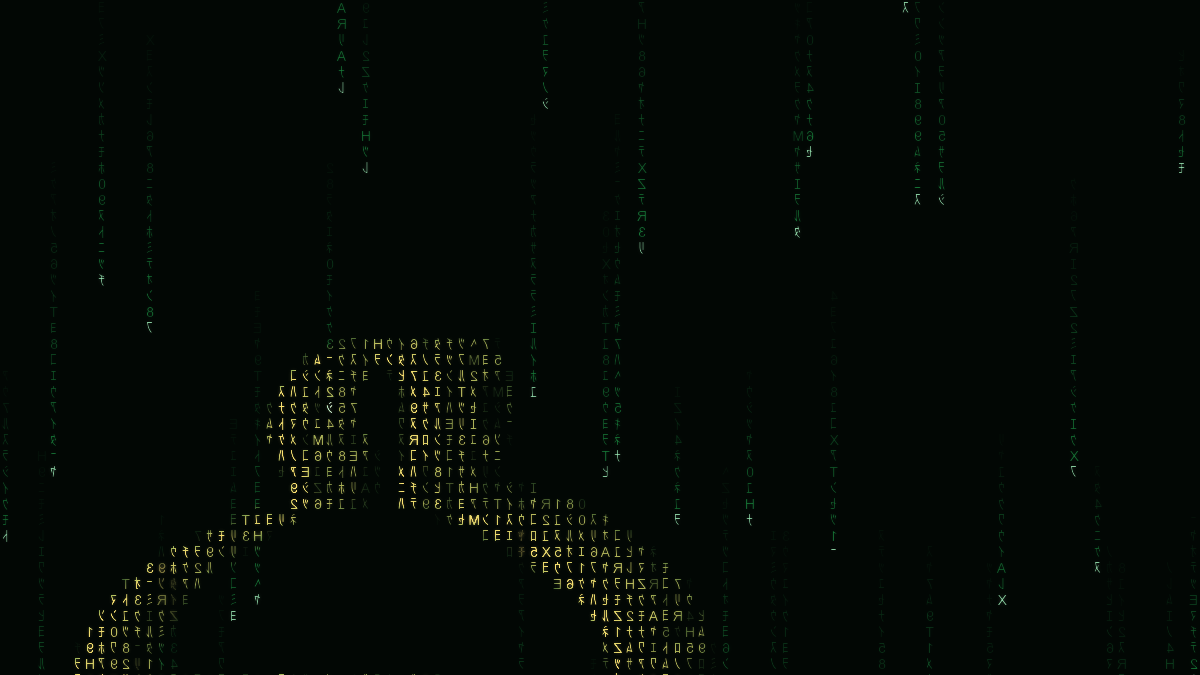
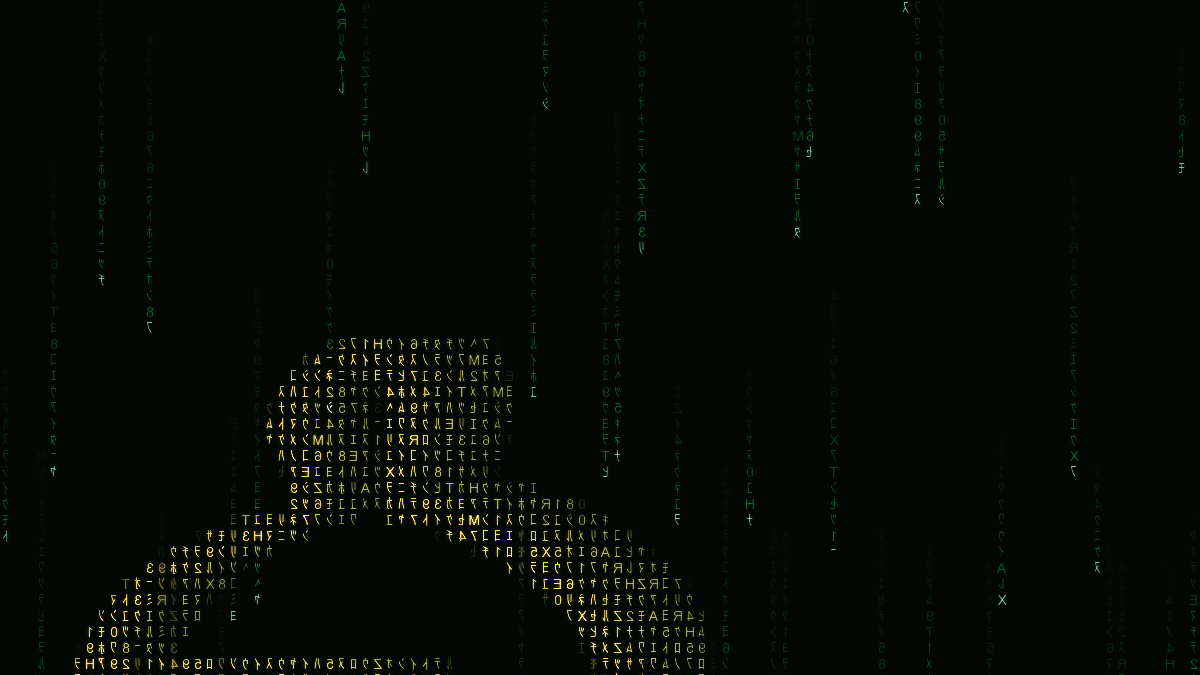
Docs: outline_width key, 6 s burst, re-rendered motion images

diff --git a/docs/index.html b/docs/index.html
@@ -215,7 +215,7 @@ cd iterm2-matrix-rain
       <pre class="cmd"><code>.venv/bin/matrix-rain camera disable</code></pre>
       <ul style="margin-top: 14px;">
         <li>Where something moves, the rain draws a gold outline of it, then fades back to green over about 5 s.</li>
-        <li>New motion bursts brighter for the first 3 s, then settles.</li>
+        <li>New motion bursts brighter for the first 6 s, then settles.</li>
         <li>The camera opens only while the rain animates at full rate, so its light is off when idle.</li>
         <li>It reads a low-resolution motion mask.  Nothing is recorded or stored.</li>
       </ul>

diff --git a/README.md b/README.md
@@ -15,7 +15,7 @@ iTerm2 does not animate GIF backgrounds.  A small daemon renders soft PNG frames
 
 ## Camera motion (optional, off by default)
 
-With the camera turned on, the rain draws a gold outline around whatever moves in front of the Mac's camera, such as you, and fades back over about five seconds.  The gold is stronger for the first few seconds after you start moving.  It is off until you run `matrix-rain camera enable`, and nothing is recorded or stored.  See [Camera motion](#camera-motion) for details.
+With the camera turned on, the rain draws a gold outline around whatever moves in front of the Mac's camera, such as you, and fades back over about five seconds.  The gold is stronger for the first six seconds after you start moving.  It is off until you run `matrix-rain camera enable`, and nothing is recorded or stored.  See [Camera motion](#camera-motion) for details.
 
 ![Motion tint](docs/preview-motion.png)
 
@@ -172,7 +172,8 @@ pkill -f 'matrix[-_]rain daemon'; osascript ~/Library/Application\ Support/iTerm
 | `sensitivity` | `0.5` | 0 reacts only to large changes, 1 to small ones too; 0.5 is a 24 gray-level threshold, which `camera test` prints |
 | `strength` | `1.0` | How far moving cells shift toward the tint, 0 to 1 |
 | `shape` | `"outline"` | `"outline"`: the gold edge of what moved; `"fill"`: the whole moving area |
-| `burst` | `3.0` | Seconds of stronger gold when motion starts after a rest |
+| `outline_width` | `3` | Outline thickness from 1 (thin) to 8 |
+| `burst` | `6.0` | Seconds of stronger gold when motion starts after a rest |
 | `burst_rest` | `2.0` | Seconds of stillness before the next motion bursts |
 | `burst_strength` | `1.7` | Brightness multiplier for gold cells during a burst |
 | `burst_tint`, `burst_head_tint` | `[255, 220, 110]`, `[255, 252, 225]` | Tail and head colors during a burst |
@@ -238,7 +239,8 @@ fill = 0.9                   # 0..1, dim glyphs lit in moving cells where no rai
 fps = 10                     # camera frames per second (extra frames are dropped)
 warmup = 1.5                 # seconds after the camera opens before any tint
 shape = "outline"            # "outline": gold edge of what moved; "fill": the whole area
-burst = 3.0                  # seconds of stronger gold when motion starts after a rest
+outline_width = 3            # outline thickness, 1 (thin) to 8; about 2x this in camera pixels
+burst = 6.0                  # seconds of stronger gold when motion starts after a rest
 burst_rest = 2.0             # seconds without motion before the next motion bursts
 burst_strength = 1.7         # brightness multiplier for moving cells during a burst
 burst_tint = [255, 220, 110] # tail color during a burst
